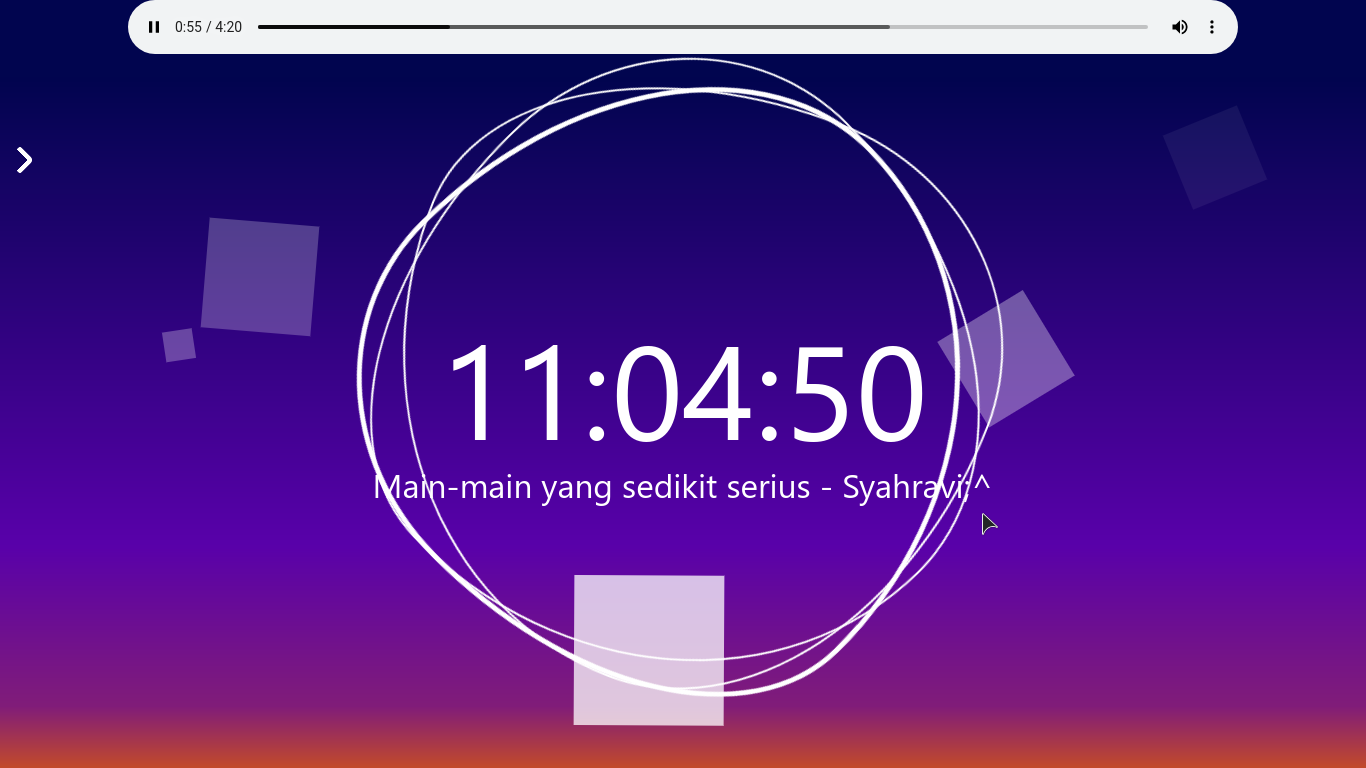
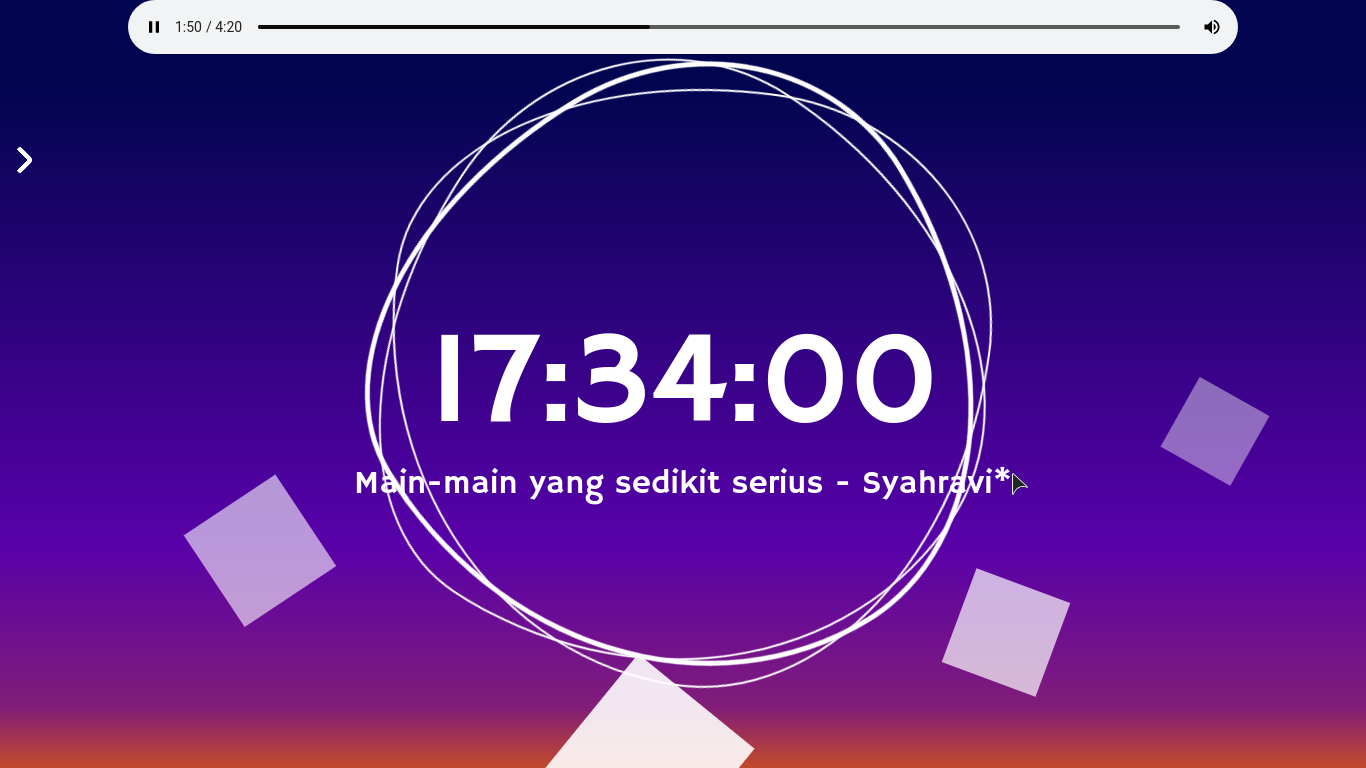
Kerenlah

diff --git a/index.html b/index.html
@@ -6,6 +6,8 @@
 	  <meta name="viewport" content="width=device-width, initial-scale=1, user-scalable=no">
 	  <link rel="stylesheet" href="https://maxcdn.bootstrapcdn.com/bootstrap/4.4.1/css/bootstrap.min.css">
 	  <link rel="shortcut icon" href="raa.png" />
+		<link rel="preconnect" href="https://fonts.gstatic.com">
+		<link href="https://fonts.googleapis.com/css2?family=Hammersmith+One&display=swap" rel="stylesheet">
 	  <link rel="stylesheet" type="text/css" href="style.css" />
 	  <style type="text/css">
 	  	body{
@@ -13,6 +15,7 @@
 	  		background: black;
 	  		width: 100%;
 	  		height: 100vh;
+				font-family: 'Hammersmith One', sans-serif;
 	  	}
 	  	.bg{
 	  		width: 100%;
@@ -643,7 +646,7 @@
 				console.log(auto);
 			}
 
-var txt = 'Main-main yang sedikit serius - Syahravi;^';
+			var txt = 'Main-main yang sedikit serius - Syahravi*';
 			var txt2 = 'txt';
 
 			function checkTime(i) {
